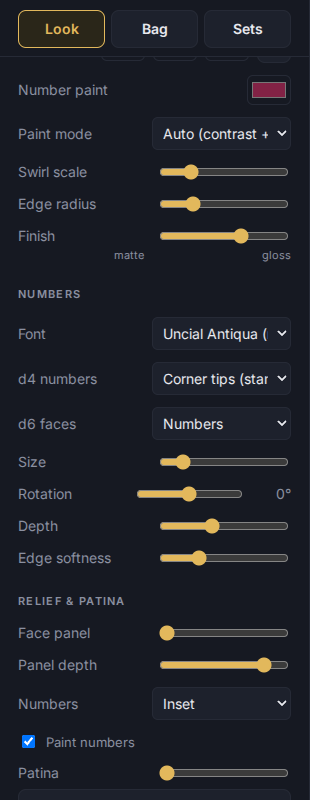
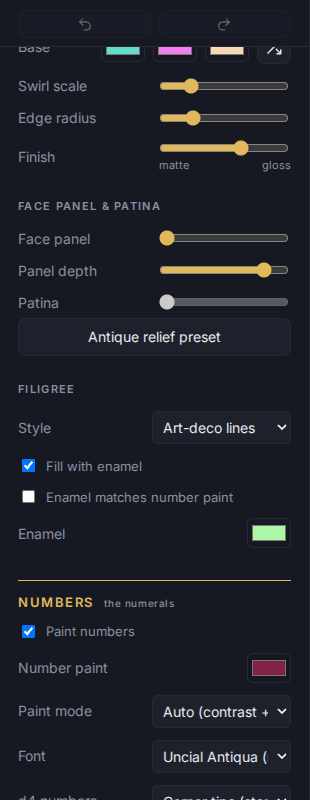
Design pane split into Base and Numbers category sections; Paint numbers first (PD-142.38.24)

diff --git a/index.html b/index.html
@@ -19,6 +19,7 @@
   h1{font:800 22px Cinzel,serif;letter-spacing:.08em;margin:0 0 2px;color:var(--accent)}
   .sub{color:var(--dim);font-size:12px;margin-bottom:18px}
   h2{font-size:11px;letter-spacing:.12em;text-transform:uppercase;color:var(--dim);margin:20px 0 8px;font-weight:600}
+  h2.cat{font-size:13px;color:var(--accent);margin:26px 0 4px;padding-top:12px;border-top:1px solid var(--accent)} h2.cat span{font-size:10px;letter-spacing:.06em;color:var(--dim);font-weight:500;margin-left:6px;text-transform:none}   /* PD-142.38.24: the Base (die body) and Numbers (numerals) category heads over the existing sub-sections */
   .grid{display:grid;grid-template-columns:repeat(4,1fr);gap:6px}
   .grid.two{grid-template-columns:repeat(2,1fr)}
   button{font:inherit;color:var(--ink);background:#1d212c;border:1px solid var(--line);border-radius:8px;padding:8px 4px;cursor:pointer}
@@ -389,14 +390,12 @@
       <div class="row" id="savesetrow"><input id="setname" type="text" maxlength="80" placeholder="Name this set" aria-label="Set name" style="flex:1;min-width:0;font:inherit;color:var(--ink);background:#1d212c;border:1px solid var(--line);border-radius:6px;padding:6px"><button id="setsavebtn" type="button" title="Save these dice as a new set in the bag (find it under Bag, Sets)">Save as set</button></div>
     </div>
 
+    <h2 class="cat" id="cat-base">Base <span>the die body</span></h2>
     <h2>Substrate</h2>
     <div class="grid two" id="subs"></div>
 
     <h2>Colors</h2>
     <div class="row"><label>Base</label><input type="color" id="c1"><input type="color" id="c2"><input type="color" id="c3"><button id="colorrand" class="ico" type="button" title="Randomize the base colours only" aria-label="Randomize the base colours only"><svg viewBox="0 0 24 24"><path d="M16 3h5v5M4 20L21 3M21 16v5h-5M15 15l6 6M4 4l5 5"/></svg></button></div>
-    <div class="row"><label>Number paint</label><input type="color" id="paint"></div>
-    <div class="row"><label>Paint mode</label><select id="paintmode"><option value="auto">Auto (contrast + harmony)</option><option value="random">Random</option><option value="custom">Custom</option></select></div>
-    <div class="chk"><input type="checkbox" id="numpaint"><span>Paint numbers</span></div>
     <div class="row"><label>Swirl scale</label><input type="range" id="scale" min="0.5" max="3.5" step="0.05"></div>
     <div class="row"><label>Edge radius</label><input type="range" id="radius" min="0" max="0.15" step="0.005"></div>
     <div class="row"><label>Finish</label><span class="slends"><input type="range" id="polish" min="0" max="1" step="0.01" title="matte ← → gloss"><span class="ends"><span>matte</span><span>gloss</span></span></span></div>
@@ -419,19 +418,9 @@
       </div>
     </div>
 
-    <h2>Numbers</h2>
-    <div class="row"><label>Font</label><select id="font"></select></div>
-    <div class="row"><label>d4 numbers</label><select id="d4style"><option value="tips">Corner tips (standard)</option><option value="center">Face centre</option></select></div>
-    <div class="row"><label>d6 faces</label><select id="d6style"><option value="numbers">Numbers</option><option value="pips">Pips</option></select></div>
-    <div class="row"><label>Size</label><input type="range" id="numsize" min="0" max="1" step="0.002"></div>
-    <div class="row"><label>Rotation <output id="numrotv" style="color:var(--dim);margin-left:4px"></output> <button type="button" id="numrotreset" class="rzero" title="Reset rotation to 0°" aria-label="Reset rotation to zero">0°</button></label><span class="slends"><input type="range" id="numrot" min="-180" max="180" step="1"><span class="ends"><span>-180</span><span>0</span><span>180</span></span></span></div>
-    <div class="row"><label>Depth</label><input type="range" id="numdepth" min="0" max="6" step="0.1"></div>
-    <div class="row"><label>Edge softness</label><input type="range" id="numsoft" min="0.5" max="10" step="0.1"></div>
-
-    <h2>Relief &amp; patina</h2>
+    <h2>Face panel &amp; patina</h2>
     <div class="row"><label>Face panel</label><input type="range" id="panel" min="0" max="0.3" step="0.01"></div>
     <div class="row"><label>Panel depth</label><input type="range" id="paneldepth" min="0" max="1" step="0.01"></div>
-    <div class="row"><label>Numbers</label><select id="numstyle"><option value="inset">Inset</option><option value="raised">Raised (embossed)</option></select></div>
     <div class="row"><label>Patina</label><input type="range" id="patina" min="0" max="1" step="0.01"></div>
     <button id="antique" style="width:100%;margin-bottom:6px">Antique relief preset</button>
 
@@ -440,6 +429,20 @@
     <div class="chk"><input type="checkbox" id="filifill"><span>Fill with enamel</span></div>
     <div class="chk"><input type="checkbox" id="enamelsame"><span>Enamel matches number paint</span></div>
     <div class="row"><label>Enamel</label><input type="color" id="enamel"></div>
+
+    <h2 class="cat" id="cat-numbers">Numbers <span>the numerals</span></h2>
+    <div class="chk"><input type="checkbox" id="numpaint"><span>Paint numbers</span></div>
+    <div class="row"><label>Number paint</label><input type="color" id="paint"></div>
+    <div class="row"><label>Paint mode</label><select id="paintmode"><option value="auto">Auto (contrast + harmony)</option><option value="random">Random</option><option value="custom">Custom</option></select></div>
+    <div class="row"><label>Font</label><select id="font"></select></div>
+    <div class="row"><label>d4 numbers</label><select id="d4style"><option value="tips">Corner tips (standard)</option><option value="center">Face centre</option></select></div>
+    <div class="row"><label>d6 faces</label><select id="d6style"><option value="numbers">Numbers</option><option value="pips">Pips</option></select></div>
+    <div class="row"><label>Size</label><input type="range" id="numsize" min="0" max="1" step="0.002"></div>
+    <div class="row"><label>Rotation <output id="numrotv" style="color:var(--dim);margin-left:4px"></output> <button type="button" id="numrotreset" class="rzero" title="Reset rotation to 0°" aria-label="Reset rotation to zero">0°</button></label><span class="slends"><input type="range" id="numrot" min="-180" max="180" step="1"><span class="ends"><span>-180</span><span>0</span><span>180</span></span></span></div>
+    <div class="row"><label>Depth</label><input type="range" id="numdepth" min="0" max="6" step="0.1"></div>
+    <div class="row"><label>Edge softness</label><input type="range" id="numsoft" min="0.5" max="10" step="0.1"></div>
+
+    <div class="row"><label>Number style</label><select id="numstyle"><option value="inset">Inset</option><option value="raised">Raised (embossed)</option></select></div>
 
     <section id="sec-showcase">
     <h2>Showcase</h2>
@@ -2107,6 +2110,7 @@ $('dname').oninput=()=>save();
 $('dname').onchange=()=>{ if(!bag||bag.active.draft) return; const e=activeEntry(), v=uniqueName(bag.designs.filter(d=>d!==e).map(d=>d.name),$('dname').value); if(v!==$('dname').value.trim()){ $('dname').value=v; save(); } };   // a name already used in the bag gets the next number   // a typed name is an edit: show Modified and keep it
 /* ---------- 'New' callouts (PD-142.38.3): review builds only (the artifact build sets __PD_REVIEW; ?new=1 turns it on anywhere). One line per user-visible landing: id = card id, rev re-arms an edited feature. ---------- */
 const NEW_FEATURES=[   // PD-142.38.31: only changes since artifact v19 that the owner has not accepted yet. Every landed user-visible change adds an entry here (id = card id, rev 1, anchor on the control); accepted ones are removed.
+  {id:'PD-142.38.24', rev:1, anchor:'#cat-base', text:'The design controls are now sorted into two category sections. BASE (the die body): Substrate; Colors (base colours + Randomize, Swirl scale, Edge radius, Finish); Stone; Epoxy; Face panel & patina (Face panel, Panel depth, Patina, Antique relief preset); Filigree. NUMBERS (the numerals): Paint numbers, Number paint, Paint mode (Paint numbers comes first now), Font, d4 numbers, d6 faces, Size, Rotation, Depth, Edge softness, Number style (Inset / Raised; the old "Numbers" selector in Relief). Nothing else changed: same controls, ids and saved designs. Check: Design pane, scroll through Base then Numbers and say if any control belongs on the other side.', card:'PD-142.38.24'},
   {id:'PD-142.38.56', rev:1, anchor:'#undo', text:'On a phone the Undo / Redo strip now scrolls away with the Design pane instead of staying stuck at the top, which gives the controls about 56 px more room. Scroll back up to reach it; the keyboard shortcuts still work, and desktop keeps the strip in view. Check: on a phone, Design, scroll the pane down and back up.', card:'PD-142.38.56'},
   {id:'PD-142.38.55', rev:1, anchor:'#shapes', text:'On a phone, tapping a Shape button (or any other control in the settings pane) no longer jumps the pane back to the top: the pane stays where you scrolled it. The pane also scrolls up and down only now; a sideways drag does nothing. Check: on a phone, scroll the Design pane down, tap Shape buttons, Adv / Dis, the Custom +/- chips, then drag sideways.', card:'PD-142.38.55'},
   {id:'PD-142.38.54', rev:1, anchor:'#bagbtn', text:'The grey "UI paused" diagnostics note now appears at the top centre instead of over the round Bag button, so the Bag button stays tappable after a slow moment. Check: after the page has paused (a big bag loading), the Bag button opens the Bag view at once.', card:'PD-142.38.54'},

diff --git a/docs/guide/02-designing-a-die.md b/docs/guide/02-designing-a-die.md
@@ -1,6 +1,6 @@
 # Designing a die
 
-Everything here is in the **Look** tab of the side panel in the Design room. Changes show immediately and can be undone with Ctrl+Z. Each design in the bag remembers its own look.
+Everything here is in the **Look** tab of the side panel in the Design room. Changes show immediately and can be undone with Ctrl+Z. Each design in the bag remembers its own look. The controls below the shape are sorted into two sections: **Base** (the die body: substrate, colours, stone, epoxy, face panel and patina, filigree) and **Numbers** (the numerals: paint, font, size, relief style).
 
 ## Shape
 
@@ -8,36 +8,36 @@ Everything here is in the **Look** tab of the side panel in the Design room. Cha
 
 d4, d6, d8, d10, d%, d12, d20, d14 and d16, plus a rhombic d12. **Standard 7** and **Custom** roll several dice at once; Custom lets you build your own mix: see [Sets and the editor](04-sets-and-editor.md).
 
-## Substrate
+## Substrate (Base)
 
 ![The substrate choices with solid metal selected](img/03-substrates.png)
 
 The material the die is made of (choosing **Stone** gives you a random stone; the **Type** list that appears in the Stone section, further down the panel, picks marble, granite, malachite, lapis lazuli, agate, onyx, jasper, obsidian, turquoise, amethyst, tiger's eye or opal, and there is an **Accent** colour too): **Solid plastic**, **Swirled plastic**, **Metallic plastic**, **Solid metal**, **Clear epoxy** and **Stone** (marble, granite and so on). Choosing one changes which of the controls below apply.
 
-## Colours
+## Colours (Base)
 
 ![Colour swatches, paint mode and finish](img/04-colors.png)
 
 - **Base** holds up to three colour swatches. The dice button beside them picks a new set.
-- **Number paint** is the colour of the digits.
-- **Paint mode**: Auto (contrast plus harmony), Random, or Custom.
 - **Swirl scale** and **Edge radius** shape the pattern and how rounded the corners are.
 - **Finish**: from matte to gloss.
 
-## Numbers
+## Numbers (the Numbers section)
 
 ![Number font, size, depth and softness](img/05-numbers.png)
 
+- **Paint numbers**, **Number paint** and **Paint mode** come first: whether the digits are painted, their colour, and how it is chosen (Auto: contrast plus harmony, Random, or Custom).
 - **Font**: Cinzel (classic), Metamorphous (fantasy), Uncial Antiqua (runic), Inter (clean sans), Georgia (serif) or Courier (mono).
 - **d4 numbers**: on the corner tips (the standard way) or in the face centre.
 - **d6 faces**: numbers or pips.
 - **Size**, **Rotation**, **Depth** and **Edge softness** adjust the digits.
+- **Number style** (the last Numbers control): **Inset** or **Raised (embossed)**. Raised needs a face panel (see below).
 
-## Relief and patina, filigree
+## Face panel, patina and filigree (Base)
 
 ![Face panel, relief, patina and filigree options](img/06-relief-filigree.png)
 
-- **Face panel** and **Panel depth** sink or raise a panel behind the number. **Numbers** can be **Inset** or **Raised (embossed)**, and **Paint numbers** fills them.
+- **Face panel** and **Panel depth** sink or raise a panel behind the number. The panel is what lets the numbers be Raised.
 - **Patina** ages the die; **Antique relief preset** applies a worn look in one click.
 - **Filigree** adds ornament: Scrollwork, Beaded border or Art-deco lines. **Fill with enamel** colours it in; **Enamel matches number paint** keeps the two in step.
 
